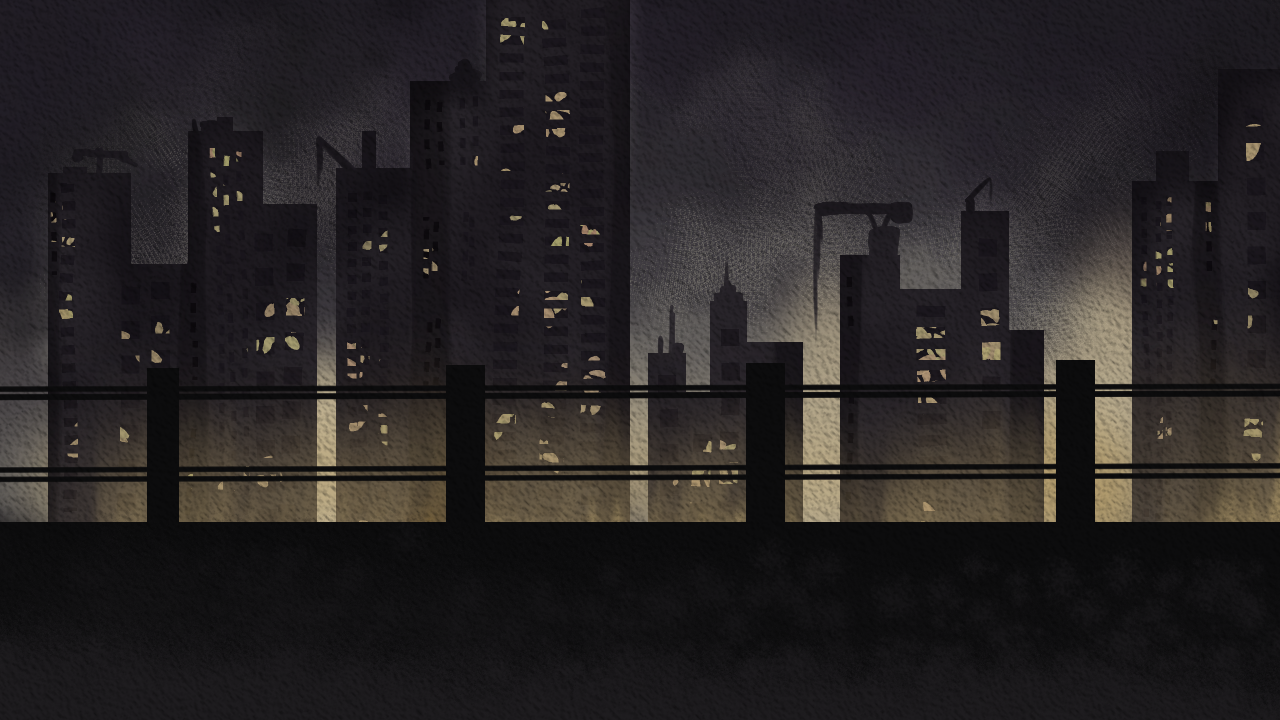
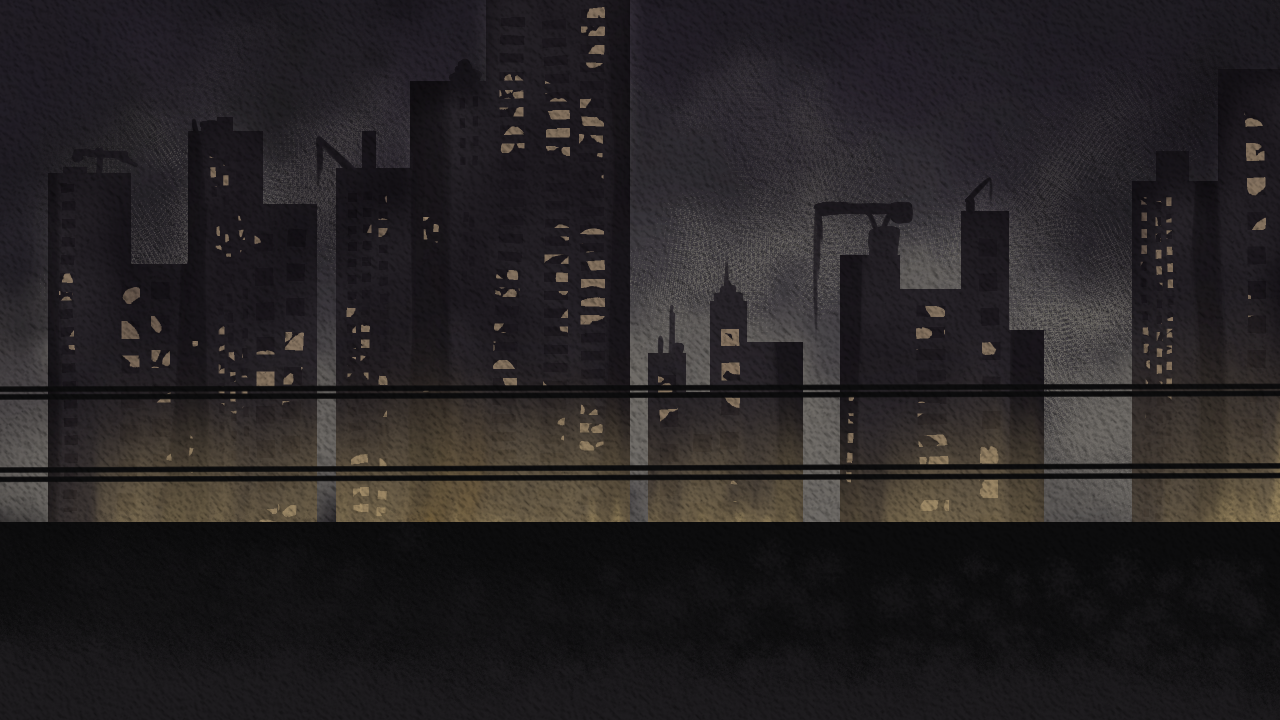
FinalCode
Just some small adjustments to conclude:
- added lights on top of the barricades
- made the barricades move
- let the frames be different numbers for effect
-removed code I didn't need
-tried to everything for easy reading

diff --git a/music_starter.js b/music_starter.js
@@ -6,6 +6,7 @@ let raining = [];
 let rainTilt = 2
 let grains = []
 let stockCount = []
+let frameDiff;
 let balloon;
 let firstRun = true
 
@@ -17,7 +18,7 @@ let bgCharacter;
 let bg = []
 let bgFrame;
 
-let finalImg;
+let speed = 1
 
 function draw_one_frame(words, vocal, drum, bass, other, counter) {
 
@@ -32,7 +33,6 @@ function draw_one_frame(words, vocal, drum, bass, other, counter) {
     bgCharacter = loadImage('singing_character.png');
     bg.push(loadImage ('bgtest.png'));
     bg.push(loadImage ('bgtest1.png'))
-    finalImg = loadImage ('Title_Screen.png')
 
     firstRun = false
   }
@@ -41,11 +41,6 @@ function draw_one_frame(words, vocal, drum, bass, other, counter) {
   rotate (0)
   rotate (0.2*sin(counter))
   angleMode (DEGREES)
-
-  let From = color(61,52,69);
-  let To = color(83,67,97);
-  let Heartbeat = lerpColor(From, To, map(other, 70, 80, 0, 1))
-  background(Heartbeat) //IMPORTANT BECAUSE RESET FRAME TO DRAW NEXT //This will change to a drawn background where I will use tint();
 
   textFont('Courier New'); // CSS safe fonts. I looked em' up 
   textStyle(BOLD)
@@ -57,36 +52,32 @@ function draw_one_frame(words, vocal, drum, bass, other, counter) {
   imageMode(CORNER);
   colorMode (HSB);
   tint (0,0,(map(other, 0, 100, 40, 100)))
-  bgFrame = int(counter / 100) % 2
+  bgFrame = int(counter / 75) % 2
   image(bg[bgFrame], 0, 0);
   pop();
 
-  //Grain
-  if (counter>0){
+  //barricade code
+  push();  
+rectMode(CORNER)
+translate (-30,0)  //so that the bar doesn't just appear on the screen
+  for (x=0; x<width+30; x+=262){ // x += 1310/5 (dividing by 5 means visually five barricades)
+    fill(13,13,14)
+    strokeWeight(0)
+    rect(x + speed, 360, 30, 165)
+    
+    fill(146,125,104);
     push();
-    for (let g of grains){
-      g.show();
-    }
+    colorMode(HSL)
+    fill(30,17,map(drum, 0, 100, 35, 75))
+    rect(x + speed, 350, 30, 10, 4, 4, 0, 0)
     pop();
-  
-  for (let i=0; i<2; i++){
-    grains.push(new Grains(random(width), 0))
-  }
-}
 
-  //RAIN
-  if (counter>0){
-  push();
-  for (let r of raining){ //this helps to target the individual values in the array
-    r.show(bass)
-    r.fall(bass)
+    speed += 0.1
+    if (x+speed > width+30){
+      speed = 0
+    }
   }
-
-  for (let i=0; i<(map(bass, 0, 100, 1, 3)); i++){ //the mapping maps the amount of rain that gets made per count
-    raining.push(new Rain(random(width), 0))
-  }
-  pop();
-} 
+pop();
 
 push(); //background singing char.
 imageMode(CENTER)
@@ -108,12 +99,36 @@ curveVertex (329, map(vocal, 10, 90, 153, 243))
 endShape();
 pop();
 
-
   //CHARACTER
   push();
   characterFrame = int(counter / 40) % 4
-  image (character1[characterFrame], map(counter, 0, ending, 1190, 100)-220, 300)
+  image (character1[characterFrame], map(counter, 0, ending, 1190, 250)-220, 300)
   pop();
+
+  //Grain
+  if (counter>0){
+    push();
+    for (let g of grains){
+      g.show();
+    }
+    pop();
+  for (let i=0; i<2; i++){
+    grains.push(new Grains(random(width), 0))
+  }
+}
+
+  //RAIN
+  if (counter>0){
+  push();
+  for (let r of raining){ //this helps to target the individual values in the array
+    r.show(bass)
+    r.fall(bass)
+  }
+  for (let i=0; i<(map(bass, 0, 100, 1, 3)); i++){ //the mapping maps the amount of rain that gets made per count
+    raining.push(new Rain(random(width), 0))
+  }
+  pop();
+} 
 
   //LINE
   lineVisual = drum
@@ -130,13 +145,11 @@ pop();
    
     beginShape();
    for (let i=0; i<lineHistory.length; i++){
-
     if (lineHistory.length >= linesegment) { //for the line to cut
       lineHistory.splice(0, 1);
       linesegment = linesegment + 0.04
     }
-
-     let x = map(i, 0, lineHistory.length, 1190, map(counter, 0, ending, 1190, 90));
+     let x = map(i, 0, lineHistory.length, 1190, map(counter, 0, ending, 1190, 240));
      let y =(height/2)+50-map(lineHistory[i], 0, 100, 0, LVisMax);
 
      push();
@@ -147,7 +160,6 @@ pop();
      pop();
     
     vertex (x, y);
-     
   }
     endShape();
     
@@ -156,10 +168,10 @@ pop();
    stroke (255,200)
    drawingContext.setLineDash([0]);
     beginShape(); //Line connecting rect() to trail
-    curveVertex (map(counter, 0, ending, 1190, 100)-120 + (100*sin(counter)), (height/2)+50 + (150*sin(counter*5))+42)
-    curveVertex (map(counter, 0, ending, 1190, 100)-80, (height/2)+112)
-    curveVertex (map(counter, 0, ending, 1190, 90), (height/2)+50-map(lineVisual, 0, 100, 0, LVisMax))
-    curveVertex (map(counter, 0, ending, 1190, 90), (height/2)+50-map(lineVisual, 0, 100, 0, LVisMax))
+    curveVertex (map(counter, 0, ending, 1190, 250)-120 + (100*sin(counter)), (height/2)+50 + (150*sin(counter*5))+42)
+    curveVertex (map(counter, 0, ending, 1190, 250)-80, (height/2)+112)
+    curveVertex (map(counter, 0, ending, 1190, 240), (height/2)+50-map(lineVisual, 0, 100, 0, LVisMax))
+    curveVertex (map(counter, 0, ending, 1190, 240), (height/2)+50-map(lineVisual, 0, 100, 0, LVisMax))
     endShape();
     pop();
   pop();
@@ -168,19 +180,17 @@ pop();
   }
 
   push(); //BALLOON
-  balloon = new Balloon (map(counter, 0, ending, 1190, 90)-1, (height/2)+10-map(lineVisual, 0, 100, 0, LVisMax))
-  balloon.show(bass);
-  pop()
+balloon = new Balloon (map(counter, 0, ending, 1190, 240)-1, (height/2)+10-map(lineVisual, 0, 100, 0, LVisMax))
+balloon.show(bass);
+pop()
 
-
-  //CinematicBars + FilmStock + Refence text
+  //CinematicBars + FilmStock
  push();
  rectMode(CORNER);
  stroke(20)
  fill(20) 
   if (counter <720){ //For the fade in at the start
     cinemaBar = map (counter, 0, 720, 500, 70)
-
   } else {
     cinemaBar = 80
   }
@@ -192,7 +202,6 @@ pop();
  textStyle (NORMAL)
  textAlign(CENTER)
  rectMode(CENTER)
-
  textSize(120)
  fill (255)
   if (counter>200){
@@ -210,11 +219,12 @@ pop();
  pop();
 
  push(); //white squares
+ translate (random(15,18)*sin(counter),0)
  strokeJoin(ROUND)
- strokeWeight (random(4, 8))
+ strokeWeight (4)
  if (counter > 720){
-  stroke (100 + random (-10, 10), 255)
- fill(100 + random (-10, 10), 255)
+  stroke (100, 150)
+ fill(100, random(80,160))
  }
  for (x=12 ; x < width; x += 300 ){
   for (y = 15; y < height; y+= 647){ 
@@ -225,45 +235,27 @@ pop();
 
  if(counter >720){ //framecounter visual
  push();
+ translate (random(15,18)*sin(counter),0)
  rectMode(CENTER)
  textAlign(CENTER)
  fill (255,random(10, 25))
  textStyle(BOLD)
  textSize (60);
+ frameDiff = 10
  for (x=1080; x > 0; x-= 300){
   for (y=40; y<720; y += 645){
-  stockCount.push(int(counter/10)) //so that the frame count isn't absurdly high
+  stockCount.push(int(counter/5)) //so that the frame count isn't absurdly high
  if (stockCount.length > 4){
   stockCount.splice (0,1)
  }
- text (stockCount[0], x + random(2, 7), y + random(2, 4))
+ text (stockCount[0]-frameDiff, x + random(2, 7), y + random(2, 4))
   }
+  frameDiff += 3
  }
  pop();
 }
 
-  if (counter>11780){
-    background (0)
-    image (finalImg, 0, 85, 1280, 550)
-    fill(255)
-    rectMode(CENTER)
-    textAlign(CENTER)
-    text ("DSDN142: Music Visualiser by Justin.C", width/2,700)
-  }
-
-// push(); //REFERENCES FOR PLACEMENTS AND TIMING
-//   rectMode(CORNER)
-//   textAlign(LEFT)
-//  fill (255,0,0) 
-//  text ("1280x720", 10, 30)
-//  text (counter, 10, 60)
-//  translate(0,0)
-//  text (mouseX, 10, 90)
-//  text (mouseY, 10, 120)
-//   pop();
-  
 }  //end of DRAW FUNCTION
-
 
 //RAIN 
 class Rain {
@@ -296,7 +288,7 @@ class Grains {
   show (){
     drawingContext.setLineDash ([3]) //so that it doesn't look like perfect straight lines
     strokeWeight (random(1, 5))
-    stroke (150, random (20, 60))
+    stroke (150, random (40, 80))
     line (this.x, this.y, this.x, this.y + this.length)
     if (grains.length > 3){
       grains.splice (0,1);
